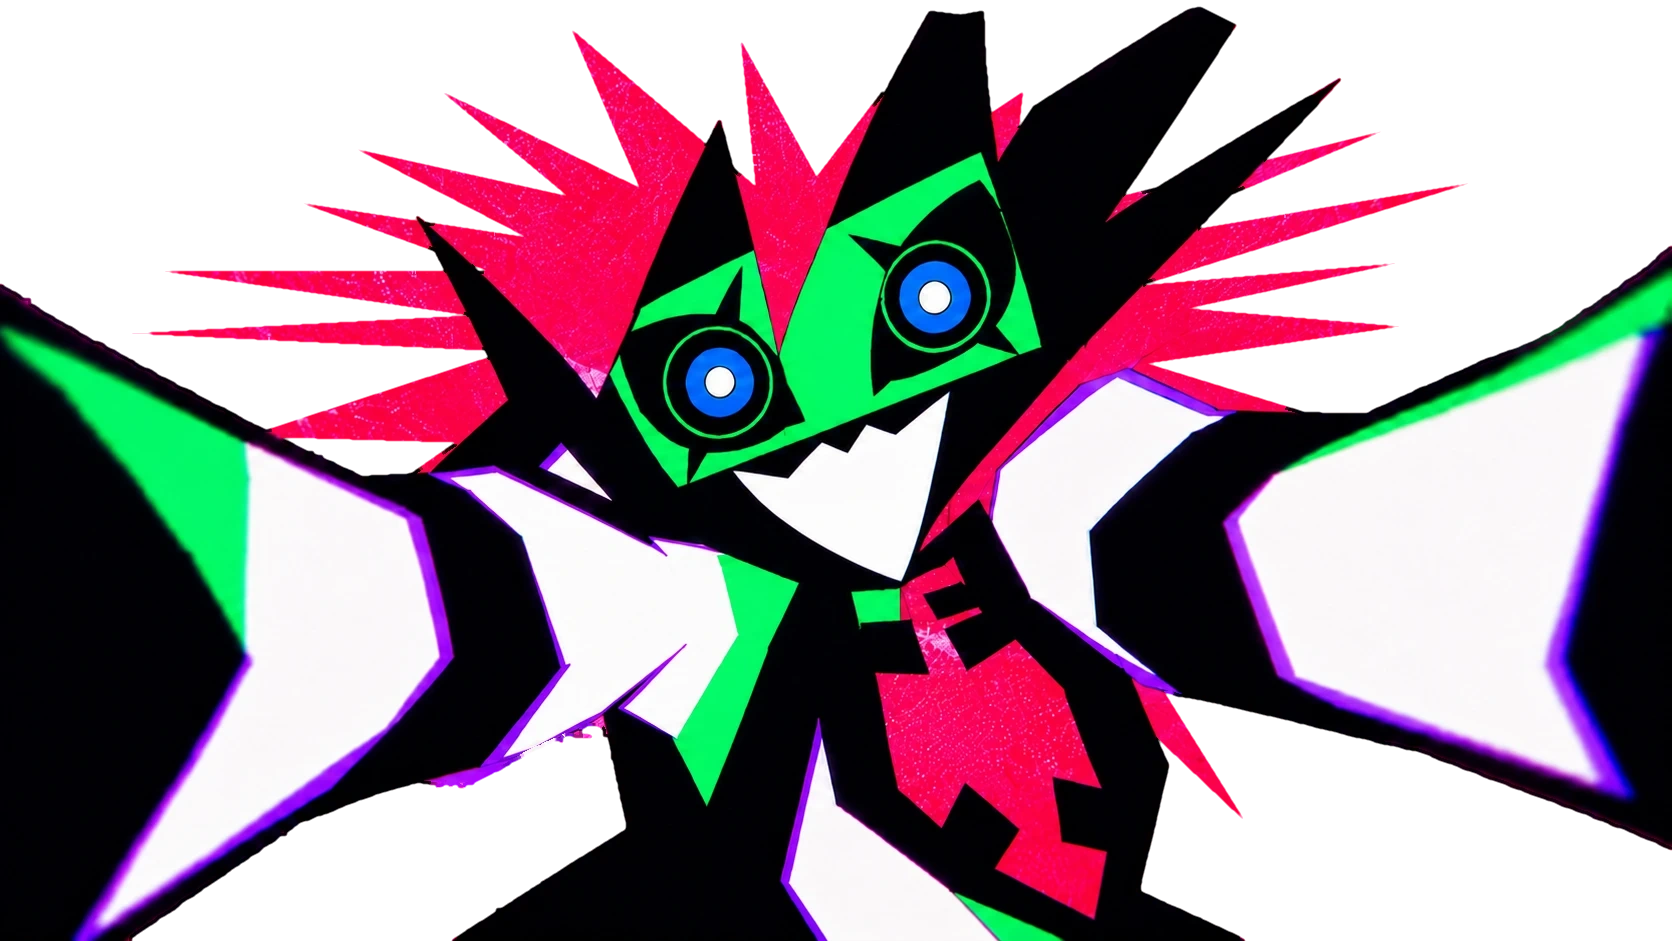
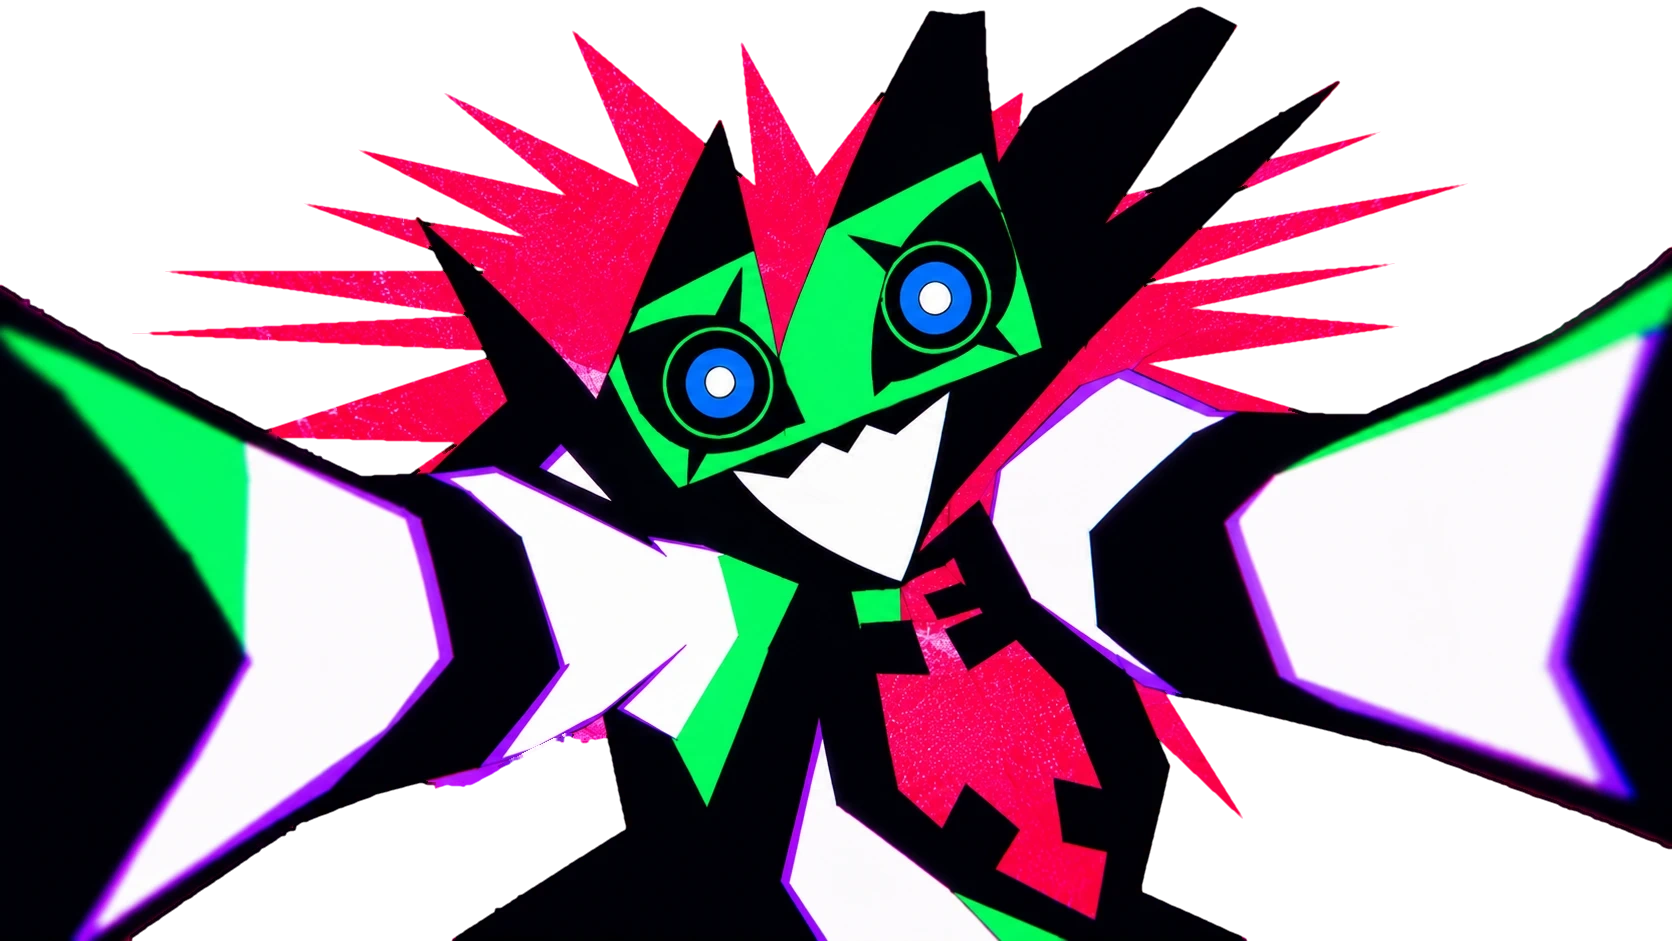
feat(intro): a three-pose wave, her arm smeared on and off the edge, her eyes shut with joy
Her wave goes left, up, right, up, left over three drawings; her arm leaves the right edge in a smear and comes back onto it in another, then she shuts her eyes with joy before glancing where she's going. Only what changes is taken from each drawing, so the grain of her mane no longer shimmers when the cels are swapped. Ported from upstream 57abd51.

diff --git a/src/renderer/js/fx.js b/src/renderer/js/fx.js
@@ -33,11 +33,16 @@ const GRAB = {
   tag: { x: 1110, y: 175 }, // where "hi" pops, by her face
   hands: [{ x: 0, y: 610 }, { x: 1672, y: 520 }], // where her hands hold the edges of the screen
 };
-const INTRO_T = { hands: 6, right: 8, reach: 10, grab: 16, hold: 21, blink: 29, hi: 34, wave: 46, regrab: 64, slip: 70, antic: 76, shrink: 78, land: 88, end: 91 };
-// her close-up's drawings (assets/capri/intro-<name>.webp), the same picture with only her mouth or
-// her right arm changed: at rest, her mouth ajar, half open and wide open, and waving (her hand
-// tilted one way, then the other)
-export const GRAB_FRAMES = ['grab', 'mouth1', 'mouth2', 'mouth3', 'wave1', 'wave2'];
+const INTRO_T = { hands: 6, right: 8, reach: 10, grab: 16, hold: 21, blink: 29, hi: 34, wave: 46, regrab: 63, happy: 65, glance: 75, slip: 80, antic: 86, shrink: 88, land: 98, end: 101 };
+// her close-up's drawings (assets/capri/intro-<name>.webp), the same picture with only her mouth,
+// her eyes or her right arm changed: at rest, her mouth ajar, half open and wide open, waving (her
+// hand tilted left, right, straight up), her arm a smear between the edge and her face, and her
+// eyes shut with joy
+export const GRAB_FRAMES = ['grab', 'mouth1', 'mouth2', 'mouth3', 'wave1', 'wave2', 'wave3', 'smear', 'happy'];
+// the wave, after the smear of her arm leaving the edge: three drawings each
+const WAVE = ['wave1', 'wave3', 'wave2', 'wave3', 'wave1'];
+// drawings whose eyes are their own (not redrawn over: they don't look around)
+const OWN_EYES = new Set(['happy']);
 // "hi", from her mouth starting to open (in drawings at 24 fps, two each)
 const SAY_HI = ['mouth1', 'mouth1', 'mouth3', 'mouth3', 'mouth3', 'mouth3', 'mouth2', 'mouth2', 'mouth1', 'mouth1'];
 
@@ -589,7 +594,7 @@ export class FxLayer {
       ctx.globalCompositeOperation = 'source-over';
     } else {
       ctx.drawImage(this.grabFrames[cel] || this.grab, 0, 0);
-      GRAB.eyes.forEach((e) => this.grabEye(e, look, open));
+      if (!OWN_EYES.has(cel) || !this.grabFrames[cel]) GRAB.eyes.forEach((e) => this.grabEye(e, look, open));
     }
     ctx.restore();
   }
@@ -1446,8 +1451,8 @@ export class FxLayer {
           }
           if (f === T.hi + 2) it.onCue('hi'); // her mouth wide open
           if (f === T.wave) it.onCue('wave');
-          if (f === T.regrab) {
-            it.onCue('hand');
+          if (f === T.happy) {
+            it.onCue('hand'); // her hand back on the edge
             if (!it.still) this.crackle(hands[1], { life: 220, radius: 50 });
           }
           if (f === T.slip) it.onCue('slip');
@@ -1472,7 +1477,7 @@ export class FxLayer {
         if (since < 3) look = { x: 0, y: 0 };
         else if (since < 7) look = { x: -10, y: -3 };
         else if (since < 11) look = { x: 10, y: -4 };
-        else if (frame >= T.regrab) look = { x: toward.x * 10, y: toward.y * 7 };
+        else if (frame >= T.glance) look = { x: toward.x * 10, y: toward.y * 7 };
         const b = frame - T.blink;
         const open = b === 0 || b === 3 ? 0.5 : b === 1 || b === 2 ? 0 : 1;
         // the line boiling: a new drawing every other frame, a pixel or two off the last
@@ -1537,17 +1542,22 @@ export class FxLayer {
         if (frame < T.slip) {
           // holding on: she breathes and boils, the camera creeping in on her, shards of her mane
           // drifting off. She says "hi" (her mouth opening over three drawings, wide on the tag
-          // popping, her head bobbing), then lets go of the right edge and waves, her hand tilting
-          // one way then the other on threes, and grabs it again. Now and then her colours slip.
+          // popping, her head bobbing), then her arm leaves the right edge in a smear and she waves,
+          // her hand tilting left, up, right, up, left on threes; a smear back onto the edge, and
+          // she shuts her eyes with joy. Now and then her colours slip.
           const h0 = frame - T.hi - 2;
-          const w0 = frame - T.wave;
           let cel = SAY_HI[frame - T.hi] ?? 'grab';
-          let snap = 0, shake = 0;
-          if (w0 >= 0 && frame < T.regrab) {
-            cel = w0 === 0 ? 'wave1' : Math.floor((w0 - 1) / 3) % 2 ? 'wave2' : 'wave1';
-            if (w0 === 0) [snap, shake] = [10, 6]; // her hand snapping off the edge
-          } else if (frame >= T.regrab && frame < T.regrab + 2) {
-            [snap, shake] = [[6, 8], [3, -4]][frame - T.regrab]; // and slamming back onto it
+          let shake = 0;
+          if (frame >= T.wave && frame < T.wave + 2) {
+            cel = 'smear'; // her arm off the edge
+            if (frame === T.wave) shake = 6;
+          } else if (frame >= T.wave + 2 && frame < T.regrab) {
+            cel = WAVE[Math.floor((frame - T.wave - 2) / 3)] ?? 'wave1';
+          } else if (frame >= T.regrab && frame < T.happy) {
+            cel = 'smear'; // and back onto it
+          } else if (frame >= T.happy && frame < T.glance) {
+            cel = 'happy';
+            if (frame < T.happy + 2) shake = [8, -4][frame - T.happy]; // her hand slamming onto it
           }
           if (frame % 5 === 0 && it.drifted !== frame) {
             it.drifted = frame; // once per frame, however often it's drawn
@@ -1559,8 +1569,8 @@ export class FxLayer {
           const bob = h0 >= 0 && h0 < 8 ? [0.024, 0.024, -0.017, -0.017, 0.009, 0.009, 0, 0][h0] : 0;
           const pop = h0 === 0 || h0 === 1 ? [0.025, 0.012][h0] : 0;
           const k = 1.025 + pop + creep + 0.006 * Math.sin(t / 7);
-          const glitch = frame % 24 === 19 ? 6 : 0;
-          this.grabbed(it, at.x + noise(1) * 1.5 + shake, at.y + noise(2) * 1.5, k, { rot: noise(3) * 0.003 + bob, look, open, cel, split: snap || glitch });
+          const glitch = frame % 24 === 19 && cel === 'grab' ? 6 : 0; // (the split is of her at rest)
+          this.grabbed(it, at.x + noise(1) * 1.5 + shake, at.y + noise(2) * 1.5, k, { rot: noise(3) * 0.003 + bob, look, open, cel, split: glitch });
           if (h0 >= 0) hi([0.35, 1.22, 0.94][h0] ?? 1);
           break;
         }

diff --git a/tools/build-intro.py b/tools/build-intro.py
@@ -3,11 +3,14 @@ their red background. What stays: her figure (everything that isn't the mane's h
 what's joined to her) and a jagged burst of mane around her head; the rest is see-through, so
 your desktop shows around her. Every drawing is cut the same way, so they can be swapped like
 cels: `grab` is her at rest (both hands on the edges, mouth shut), the others are the same picture
-with only her mouth or her right arm changed (fx.js GRAB_FRAMES). fx.js knows where her face, eyes
-and hands are on them (GRAB): keep the framing (1672x941, her eyes in the same place) or update it.
+with only her mouth, her eyes or her right arm changed (fx.js GRAB_FRAMES), and only that change is taken
+from them (CHANGES), so nothing else shimmers when they're swapped. fx.js knows where her face,
+eyes and hands are on them (GRAB): keep the framing (1672x941, her eyes in the same place) or
+update it. Give `grab` along with the others.
 
     python tools/build-intro.py grab=rest.webp mouth1=ajar.webp mouth2=half.webp mouth3=wide.webp \\
-        wave1=wave-left.webp wave2=wave-right.webp
+        wave1=wave-left.webp wave2=wave-right.webp wave3=wave-up.webp smear=arm-blur.webp \\
+        happy=eyes-shut.webp
 
 writes assets/capri/intro-<name>.webp for each. Needs Pillow.
 """
@@ -24,6 +27,14 @@ HEAD = (830, 330)   # the middle of her mane burst
 BODY = (836, 600)   # a point on her, to keep only what's joined to her
 BELLY = (980, 760)  # a point on her belly: red like the mane, but hers (see belly)
 BELLY_MAX = 330     # wider than this, a run of red isn't her belly any more (it's the background)
+# where each kind of drawing changes her (by the start of its name): only that is taken from it,
+# the rest from `grab` (see settled). A kind not listed is taken whole.
+CHANGES = {
+    'mouth': (690, 360, 1020, 650),  # her mouth
+    'wave': (930, 120, 1672, 941),   # her right arm, off the edge and up by her face
+    'smear': (930, 120, 1672, 941),  # the same arm, a blur between the edge and her face
+    'happy': (600, 180, 1060, 470),  # her eyes, shut with joy
+}
 
 
 def belly(fig):
@@ -161,13 +172,35 @@ def cut(im):
     return unfringe(out)
 
 
+def settled(base, im, box):
+    """`im` with only what really changed in it, inside `box`, kept; everything else is `base`'s.
+    An AI edit redraws the whole picture, the grain of her mane and her belly a little differently
+    each time: swapped like cels, that would shimmer. Its changes (a mouth, an arm) are found by
+    how far they are from `base` (the grain's small differences don't count), grown a little to
+    take their edges, and blended in over a soft edge so no seam shows."""
+    r, g, b = (ImageChops.difference(x, y) for x, y in zip(base.split(), im.split()))
+    diff = ImageChops.lighter(ImageChops.lighter(r, g), b)  # the most any of its channels moved
+    changed = diff.filter(ImageFilter.GaussianBlur(2)).point(lambda v: 255 if v > 48 else 0)
+    inside = Image.new('L', base.size, 0)
+    ImageDraw.Draw(inside).rectangle(box, fill=255)
+    changed = ImageChops.multiply(changed, inside)
+    # specks of grain out, then grown over the change's own edges, then a soft border
+    changed = changed.filter(ImageFilter.MinFilter(3)).filter(ImageFilter.MaxFilter(17)).filter(ImageFilter.GaussianBlur(5))
+    return Image.composite(im, base, changed)
+
+
 def main():
     pairs = [arg.split('=', 1) for arg in sys.argv[1:]]
     if not pairs or any(len(p) != 2 for p in pairs):
         sys.exit(__doc__)
-    for name, path in pairs:
+    sources = {name: framed(path) for name, path in pairs}
+    base = sources.get('grab')
+    for name, im in sources.items():
+        box = next((b for kind, b in CHANGES.items() if name.startswith(kind)), None)
+        if base is not None and name != 'grab' and box:
+            im = settled(base, im, box)
         target = OUT / f'intro-{name}.webp'
-        cut(framed(path)).save(target, 'WEBP', quality=95, method=6)
+        cut(im).save(target, 'WEBP', quality=95, method=6)
         print('written', target)
 
 
